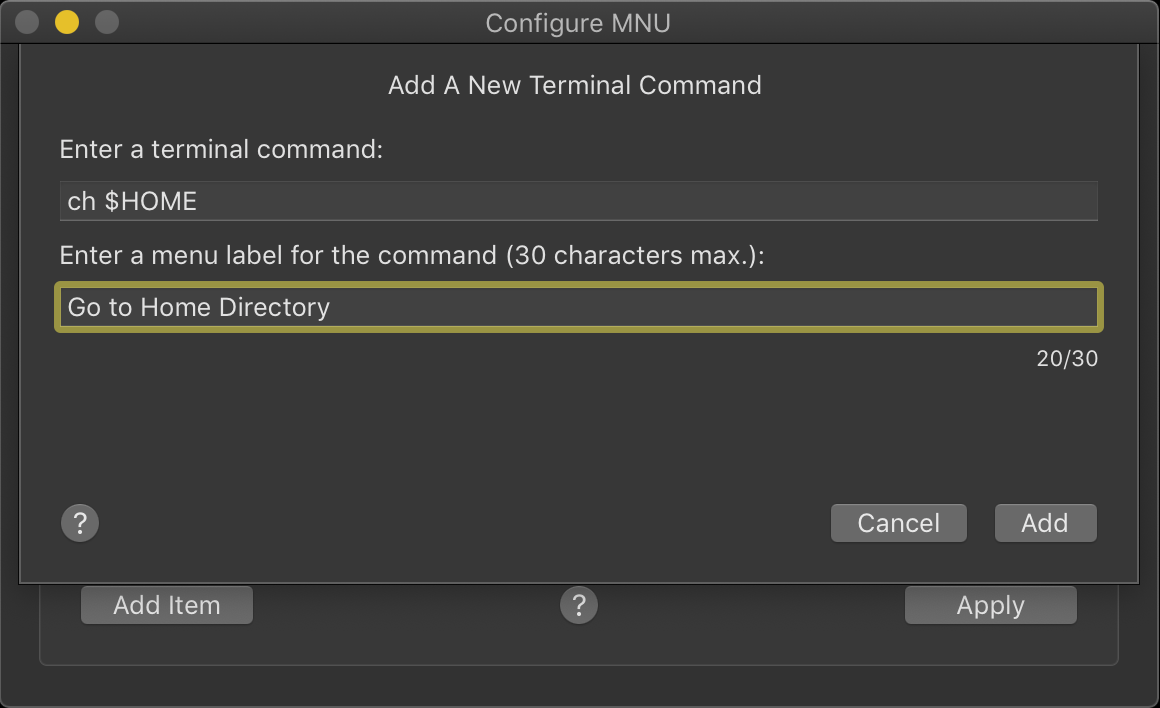
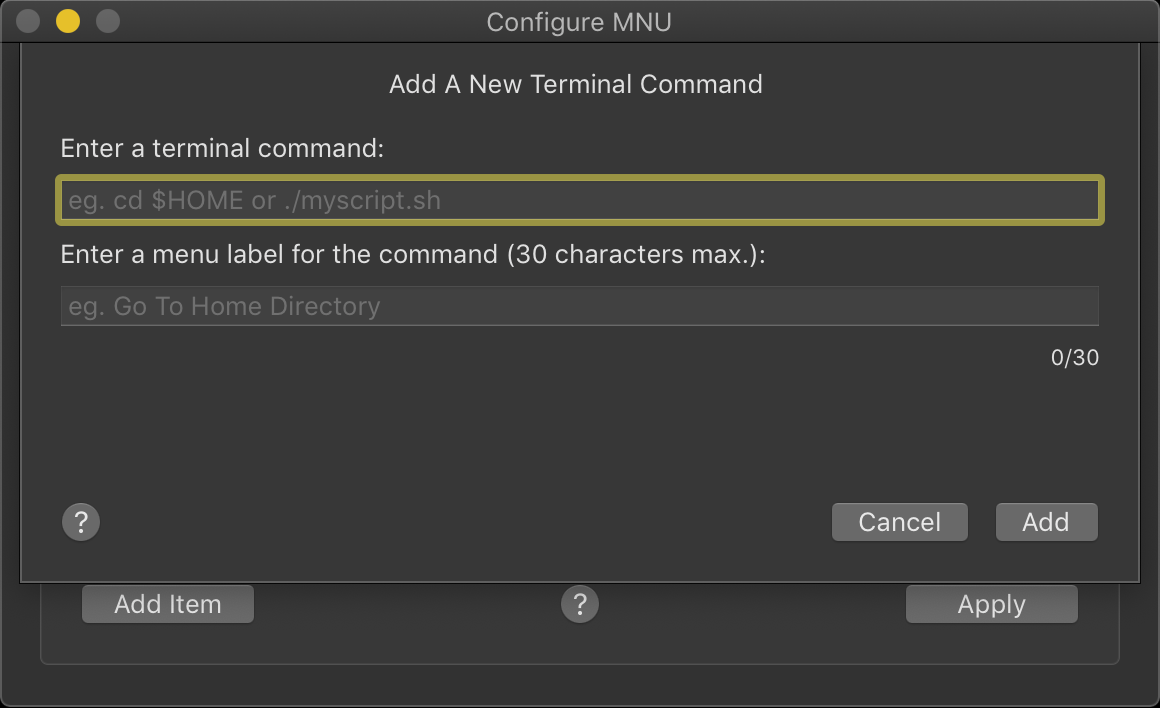
Fix images

diff --git a/mnu/index.html b/mnu/index.html
@@ -163,7 +163,7 @@
                     until you click <b>Apply</b>; closing the window will cause the new item to be discarded.</p>
                     <p>Items you have added can be deleted from the list, or they can be edited if you need to make a change: just click on
                     the delete or edit buttons, respectively:</p>
-                    <p align="center"><img class="img-fluid" src=""></p>
+                    <p align="center"><img class="img-fluid" src="../images/mnu/edit_item.png"></p>
                     <p>When MNU quits &mdash; you have restarted or shutdown your Mac, or you have clicked the quit icon at the bottom of the menu
                     &mdash; it saves the current state of the menu so it’s ready for next time.</p>
                     <h3 id="prefs">MNU Preferences</h3>
